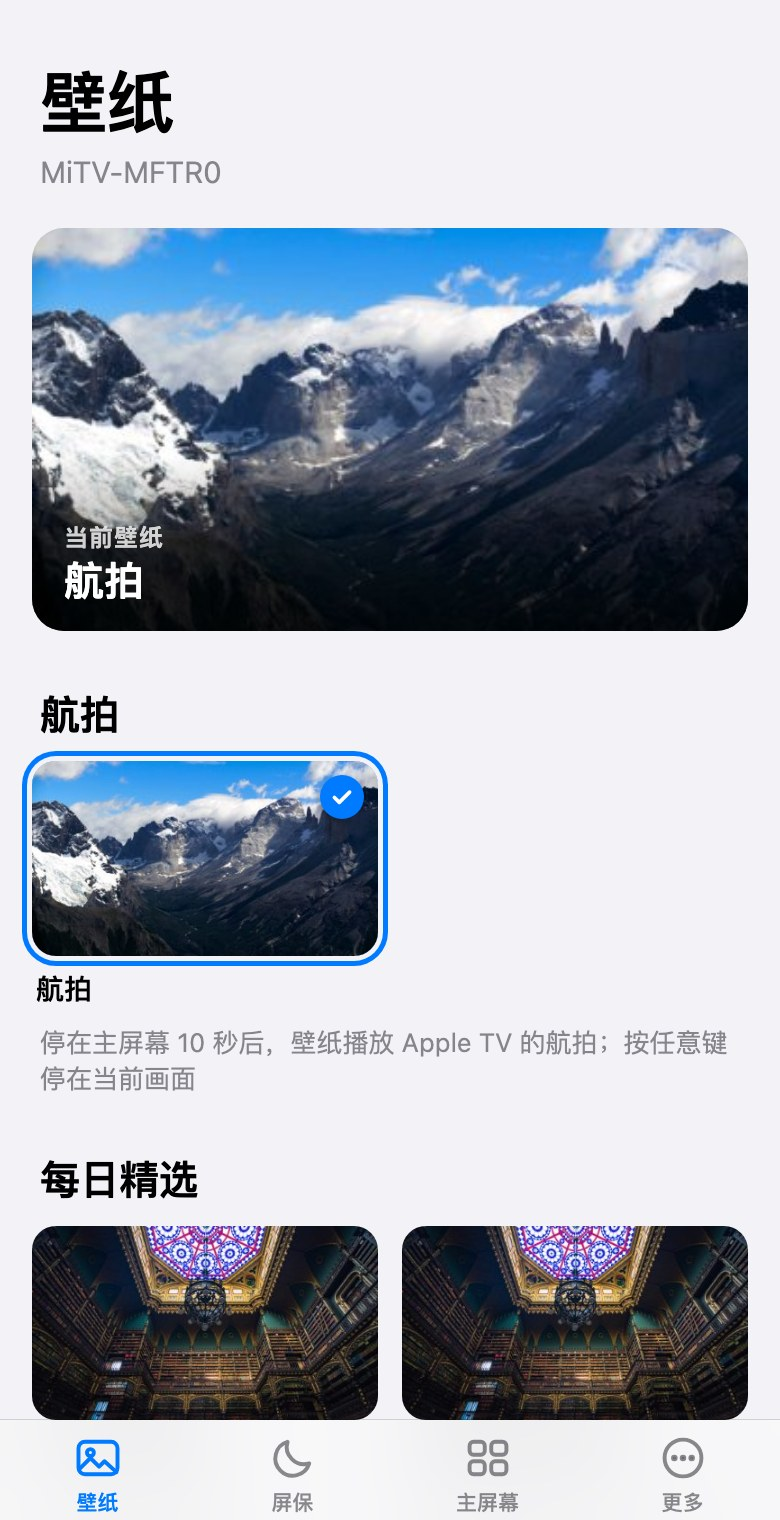
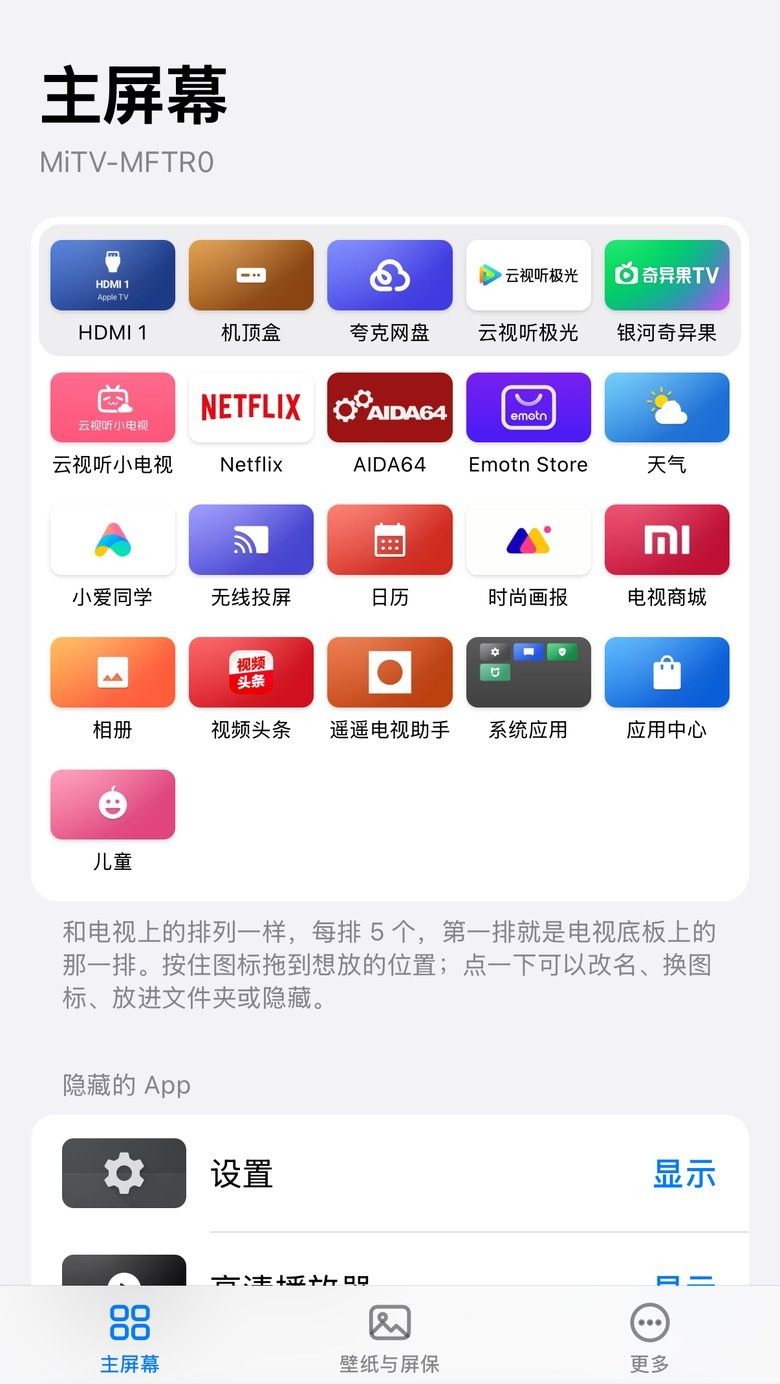
1.47: release notes in handoff; README and site describe arranging Home from the phone

diff --git a/android/site/en/index.html b/android/site/en/index.html
@@ -145,9 +145,9 @@
       <div>
         <p class="kicker">Set up from your phone</p>
         <h3 class="sub">Scan.<br>Don't type.</h3>
-        <p class="muted">Scan the code on the TV to upload photos, pick a wallpaper or change the screensaver.</p>
+        <p class="muted">Scan the code on the TV to arrange Home on your phone (drag to reorder, rename, change icons, folders, hide, add HDMI), upload photos, pick a wallpaper or change the screensaver.</p>
       </div>
-      <div class="phone"><img src="../img/phone.jpg?v=146" alt="The wallpaper and screensaver page on a phone" loading="lazy" width="780" height="1520"></div>
+      <div class="phone"><img src="../img/phone.jpg?v=147" alt="The Home Screen tab of the phone page: the TV's tiles in a grid" loading="lazy" width="780" height="1384"></div>
     </div>
   </div>
 </section>

diff --git a/android/site/index.html b/android/site/index.html
@@ -145,9 +145,9 @@
       <div>
         <p class="kicker">用手机设置</p>
         <h3 class="sub">扫一下，<br>不用遥控器打字。</h3>
-        <p class="muted">扫电视上的二维码，用手机传照片、选壁纸、换屏保。</p>
+        <p class="muted">扫电视上的二维码，在手机上整理主屏幕（拖动排序、改名、换图标、文件夹、隐藏、加 HDMI），还能传照片、选壁纸、换屏保。</p>
       </div>
-      <div class="phone"><img src="img/phone.jpg?v=146" alt="手机上的个性化设置页" loading="lazy" width="780" height="1520"></div>
+      <div class="phone"><img src="img/phone.jpg?v=147" alt="手机设置页的主屏幕标签：和电视一样的图标网格" loading="lazy" width="780" height="1384"></div>
     </div>
   </div>
 </section>

diff --git a/android/docs/HANDOFF.md b/android/docs/HANDOFF.md
@@ -4,7 +4,7 @@
 
 ## 现状（2026-10-24）
 
-- **1.47（versionCode 55；TCL 上推过 50–54 的测试包），2026-10-24，未发布**：按 issue 修 bug。① Android 12+ 守护只在 Aerial 自己 resumed 时过滤按键（`MainActivity.onPause` → `HomeGuardService.onAerialPaused`）。以前看最后一次窗口事件，云视听极光回到已有任务时没有能认出的窗口事件，过滤一直开着，方向键又一次跳两三格（#475，1.42 起；小米 MFTR0 上复现并验证）。② 守护自己连续调音量只在 TCL（`com.tcl.settings`）做，且最多 8 秒：创维在 Aerial 前台时收不到音量键抬起，按一下就到 100 或 0（#448 #451）。③ 过滤器拿走主页键时发 `CLOSE_SYSTEM_DIALOGS`（reason homekey，只到 Android 11），小米 Android 6 的设置浮层会关掉（#471）。④ 一次拉回只记一次（同一进程里通知监听和同步各记一次，通知监听自己还会重复绑定），开机 2 分钟内和升级后 2 分钟内不记：ASTP0 开机加一次唤醒就凑满 3 次，唤醒后停在 PatchWall（#470）。⑤ 解锁前守护读 CecHome 的设置崩溃（PR #481；OPPO K9 #468、海信 H55E9A；Android 15 手机模拟器设 PIN 复现并验证修复）。⑥ 解锁时不再 recreate，在锁屏窗口里接着启动（PR #469，OPPO K9 约 3 秒黑屏；模拟器上验证了生命周期）。⑦ keep_adb：`adb_enabled=1` 但 5555 不通时，开机 3 分钟内把设置 0→1 跳一次（PR #464，MiTV4 Android 6 #454）；改成只到 Android 10、每个进程一次（原 PR 的跨开机标记会误拦；Android 11+ 关 ADB 会断无线调试）。⑧ 控制中心的音量广播只刷新音量：以前跑整个 `refreshSystem`，读完信号源和亮度才写回早先读到的音量，按住左右键时滑块回跳（#445，TCL 上记录到 7→5、8→6）。⑨ 海尔 YunOS 的设置入口走 `com.haier.tv.menusetting/.RootActivity`（#458）。小米 MFTR0、TCL MT5879 都装了 55，户主音量（小米 ARC 1、TCL 6）测完已恢复。测试中误开过一次小米的 HDMI 1（Apple TV），已回到 Aerial。
+- **1.47（versionCode 55；TCL 上推过 50–54 的测试包），2026-10-25 发布**（[v1.47](https://github.com/pengchujin/aerial-tv/releases/tag/v1.47)；发布前 TCL 在待机连不上，手机页的改动只在小米上验证过）：按 issue 修 bug。① Android 12+ 守护只在 Aerial 自己 resumed 时过滤按键（`MainActivity.onPause` → `HomeGuardService.onAerialPaused`）。以前看最后一次窗口事件，云视听极光回到已有任务时没有能认出的窗口事件，过滤一直开着，方向键又一次跳两三格（#475，1.42 起；小米 MFTR0 上复现并验证）。② 守护自己连续调音量只在 TCL（`com.tcl.settings`）做，且最多 8 秒：创维在 Aerial 前台时收不到音量键抬起，按一下就到 100 或 0（#448 #451）。③ 过滤器拿走主页键时发 `CLOSE_SYSTEM_DIALOGS`（reason homekey，只到 Android 11），小米 Android 6 的设置浮层会关掉（#471）。④ 一次拉回只记一次（同一进程里通知监听和同步各记一次，通知监听自己还会重复绑定），开机 2 分钟内和升级后 2 分钟内不记：ASTP0 开机加一次唤醒就凑满 3 次，唤醒后停在 PatchWall（#470）。⑤ 解锁前守护读 CecHome 的设置崩溃（PR #481；OPPO K9 #468、海信 H55E9A；Android 15 手机模拟器设 PIN 复现并验证修复）。⑥ 解锁时不再 recreate，在锁屏窗口里接着启动（PR #469，OPPO K9 约 3 秒黑屏；模拟器上验证了生命周期）。⑦ keep_adb：`adb_enabled=1` 但 5555 不通时，开机 3 分钟内把设置 0→1 跳一次（PR #464，MiTV4 Android 6 #454）；改成只到 Android 10、每个进程一次（原 PR 的跨开机标记会误拦；Android 11+ 关 ADB 会断无线调试）。⑧ 控制中心的音量广播只刷新音量：以前跑整个 `refreshSystem`，读完信号源和亮度才写回早先读到的音量，按住左右键时滑块回跳（#445，TCL 上记录到 7→5、8→6）。⑨ 海尔 YunOS 的设置入口走 `com.haier.tv.menusetting/.RootActivity`（#458）。小米 MFTR0、TCL MT5879 都装了 55，户主音量（小米 ARC 1、TCL 6）测完已恢复。测试中误开过一次小米的 HDMI 1（Apple TV），已回到 Aerial。
 - 同一版（手机页）：图标网格每格从顶部排（有第二行小字的格子撑高一行，按钮又把内容上下居中，旁边一格低 8px）。任何 App 都能在手机页改名字（`apps/AppNames.kt`，`settings` 的 `app_names`，按包名，最多 24 字，留空恢复原名；`HomeViewModel.arrange` 用它替换 label，磁贴图不含名字，所以不重画；`POST api/app/name`，信号源仍走 `SourceLooks`）。「主屏幕」标签加「信号源」开关，列出 Home 知道的全部输入，打开等于控制中心 → 信号源设置里的「显示在主屏幕」（放到第一位，`AppCatalog.pinSource` → `setSourcePinned`，`POST api/source/pin`，`api/state` 多了 `inputs`）。小米 MFTR0 上实测：手机上打开 HDMI 3，第一排最前面出现 HDMI 3；把云视听极光改成「极光测试」，长按菜单标题跟着变；两项都已还原，第一排顺序和原来一样。只在浏览器的手机尺寸下看过，TCL 没装。
 - 同一版（手机页「整理主屏幕」）：在手机上排主屏幕，和电视长按菜单做的事一样。「主屏幕」标签第一行进入整页编辑器：和电视一样每排 5 个、第一排垫着底板；按住图标约 0.26 秒拿起（快速滑动仍是滚动页面，鼠标移动 5px 就拿起），拖到哪格就放到哪格，其他图标让位，靠近上下边自动滚动；点图标可放进文件夹 / 新建文件夹 / 移出文件夹 / 隐藏，点文件夹进去改名、排里面的顺序、解散；下面是隐藏的 App，可以「显示」。开了家长密码时手机上不列出、也不能恢复隐藏的 App（电视上看隐藏的 App 要密码，而个性化面板和二维码不要），服务端同样拒绝。实现：`AppCatalog.layout`（`LayoutOps`，由 `HomeViewModel` 提供，主线程执行）、`AppCatalog.home/folderApps/hiddenApps`（每次 arrange 更新），`LayoutStore.moveInFolder`，`POST api/layout`（`op` = move / movein / hide / unhide / folder / unfolder / ungroup），`api/state` 多了 `layout`。手机页原来的「文件夹」一组并进编辑器里。iOS 26 模拟器的 Safari 里拖过（同排、跨排、自动滚动）、建文件夹、解散、显示隐藏的 App；小米 MFTR0 上逐项调接口并立刻撤回（交换、新建文件夹再解散、隐藏再显示、文件夹里交换），从模拟器对着电视的真实页面拖了一次，第一排跟着变，最后和测试前的布局逐项比对一致。
 - 同一版（手机页改成三个标签）：主屏幕（第一个、默认打开，就是「整理主屏幕」的网格本身：点图标出一个弹层，改名、换图标、恢复默认图标、放进文件夹 / 新建、移出文件夹、隐藏都在里面；点文件夹在本页打开，标题左上「‹ 主屏幕」返回，再点一次底部的主屏幕也返回；下面是隐藏的 App，点一行也能出弹层；最下面是信号源开关）、壁纸与屏保（原来两个标签合并）、更多（焦点样式、天气、型号、语言、反馈问题）。旧地址 `#wallpaper`、`#screensaver` 打开「壁纸与屏保」。拖动时页面本身滚动，靠近底部标签栏上沿时自动往下滚。iOS 26 模拟器里点过三个标签、弹层、文件夹进出、拖了一次；小米 MFTR0 装了，没在上面拖（户主自己在测）。

diff --git a/android/README.md b/android/README.md
@@ -35,7 +35,8 @@
 </p>
 
 - **首页**：常用的一排 App 放在屏幕下方的玻璃底板上，往下是全部 App。小米「应用中心」「米家」这类藏起来的系统 App 也在。
-- **整理**：长按 OK 键（或按菜单键）可以移动、放进文件夹、隐藏、卸载。固定到主屏幕的 HDMI 可以选接的是 Apple TV、PlayStation、Switch、Xbox、电脑等，换成对应的图标，也能在手机上起名字；文件夹也可以在手机上改名。
+- **整理**：长按 OK 键（或按菜单键）可以移动、放进文件夹、隐藏、卸载。固定到主屏幕的 HDMI 可以选接的是 Apple TV、PlayStation、Switch、Xbox、电脑等，换成对应的图标，也能在手机上起名字。
+- **用手机整理**：扫电视上的二维码，手机上就是和电视一样的图标网格：按住拖动排序，点一下改名、换图标、放进文件夹或隐藏，也能把 HDMI 等信号源加到主屏幕。
 - **控制中心**：在第一排按上键到右上角打开，有信号源、网络、设置、音量、亮度和个性化。
 - **屏保**：Apple TV 的 114 段航拍影片，电视支持时播 4K 或 4K 杜比视界，也可以换成照片、时钟或从手机添加的本地视频（[说明](docs/SCREENSAVER_VIDEOS.md)）。
 - **壁纸**：必应每日精选、14 张内置壁纸、用手机扫码传的照片，或者航拍：停在主屏幕 10 秒后在磁贴后面播放，按任意键停在当前画面。

diff --git a/android/README.en.md b/android/README.en.md
@@ -36,6 +36,7 @@ Made for the Xiaomi, TCL and other TVs sold in China. It starts at boot and surv
 
 - **Home**: your favorite apps in one row on a glass shelf at the bottom, every app below it. Hidden system apps like Xiaomi's App Store and Mi Home show up too.
 - **Organize**: hold OK (or press Menu) to move an app, put it in a folder, hide it or uninstall it. An HDMI input pinned to Home can say what is plugged in (Apple TV, PlayStation, Switch, Xbox, a computer...) and take its icon, or a name you type on your phone.
+- **Arrange from your phone**: scan the code on the TV and your phone shows Home as the TV lays it out. Drag tiles into place; tap one to rename it, change its icon, put it in a folder or hide it; add HDMI and other inputs to Home.
 - **Control Center**: press Up from the top row to the top right. Inputs, network, settings, volume, brightness and Personalize.
 - **Screensaver**: Apple TV's 114 aerial films, in 4K or 4K Dolby Vision where the TV supports it, your photos, a clock, or local videos sent from your phone ([guide, Chinese](docs/SCREENSAVER_VIDEOS.md)).
 - **Wallpaper**: Bing's photo of the day, fourteen built-ins, photos you upload by scanning a code with your phone, or aerial films that play behind the apps after ten still seconds on Home and stop on the frame showing at any key.
